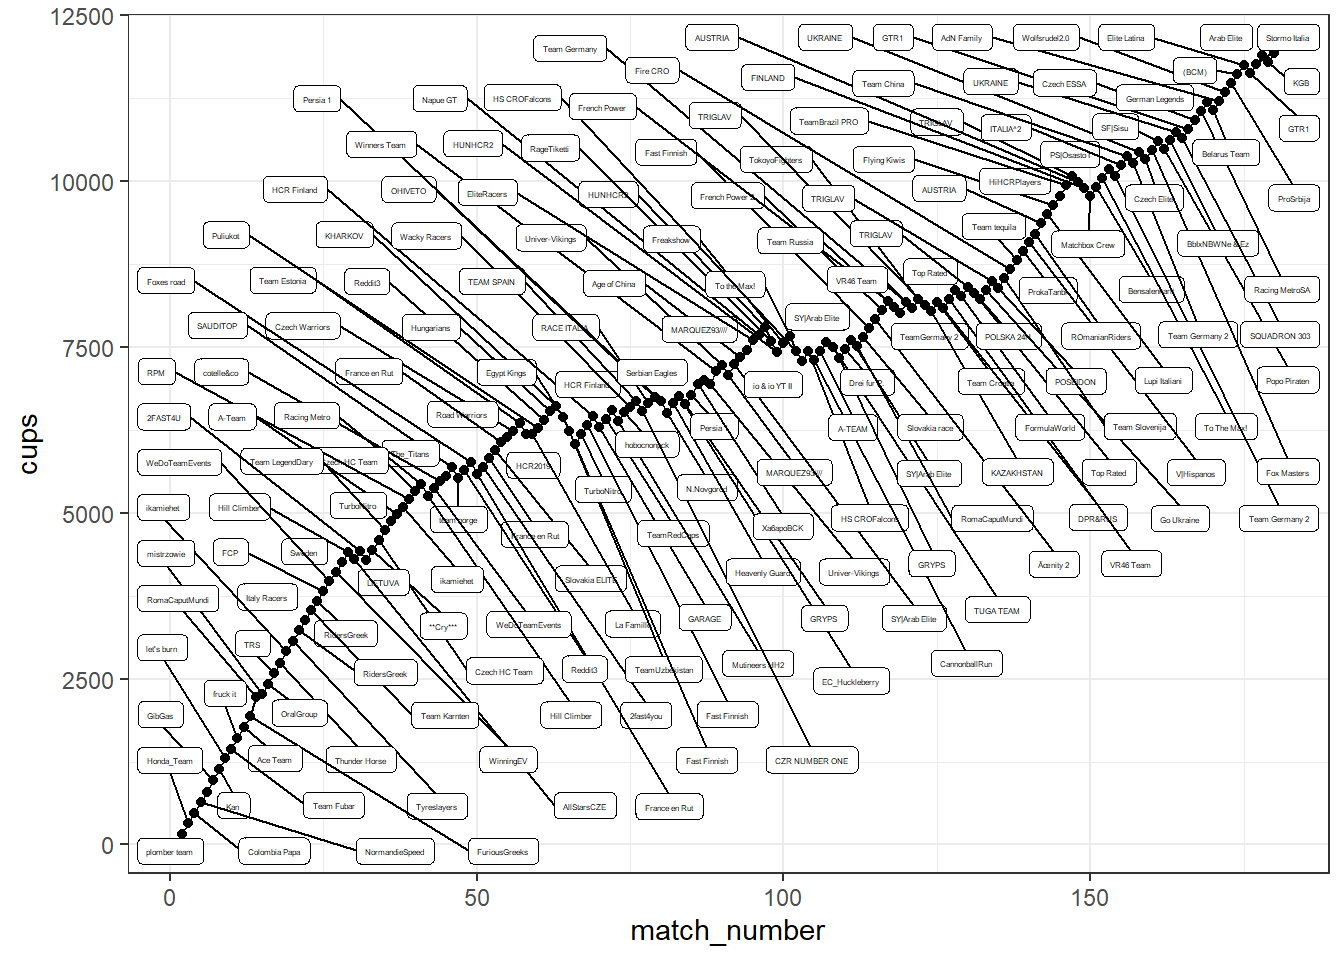
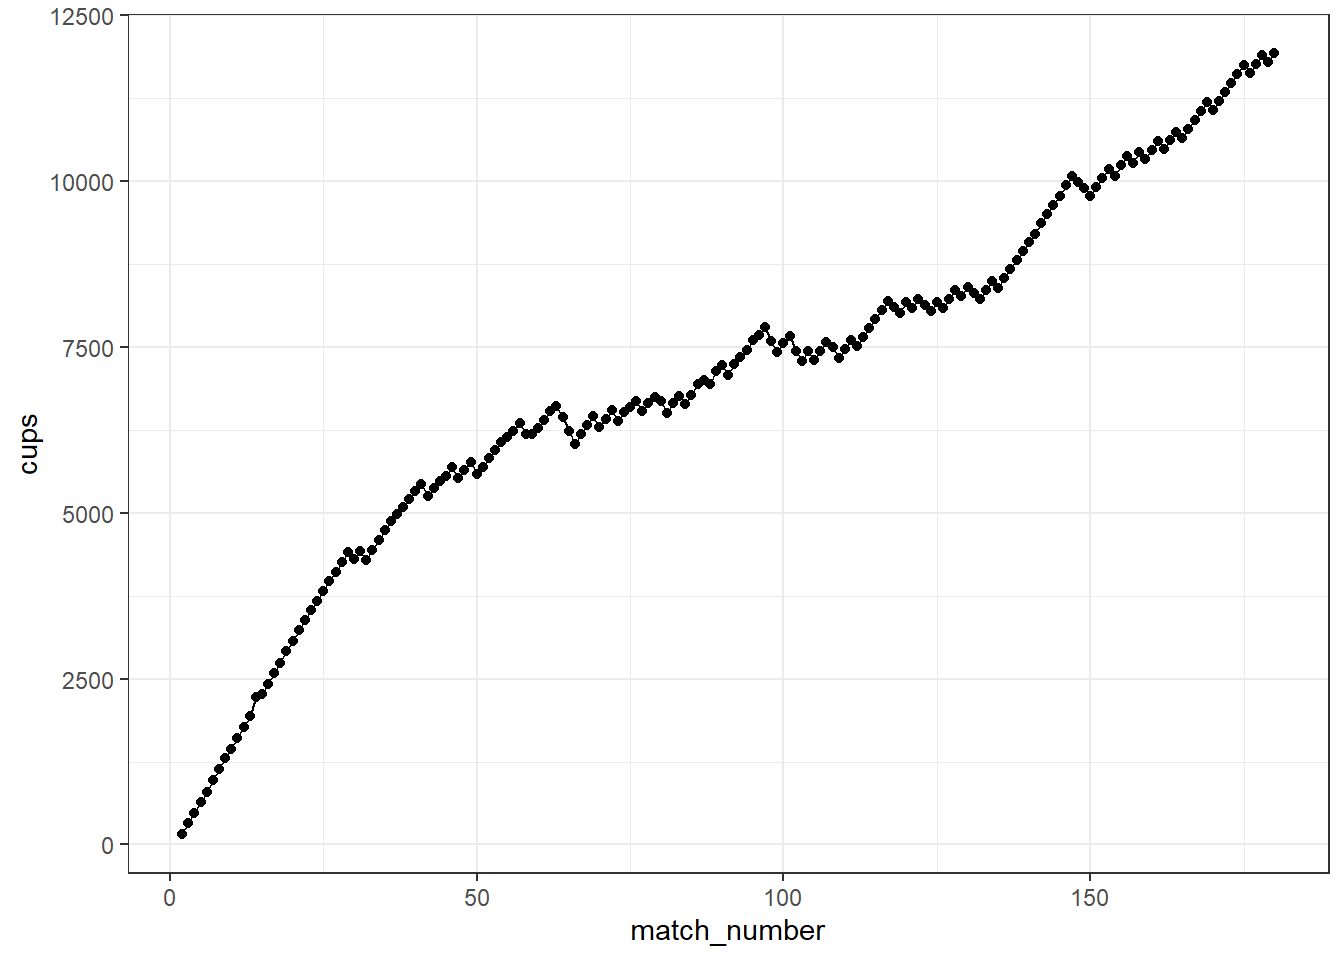
commit from Rstudio

diff --git a/content/RZR/about_RZR.html b/content/RZR/about_RZR.html
@@ -1,7 +1,7 @@
 ---
 title: "About RZR"
 author: "giddybb"
-date: "30 June, 2020"
+date: "01 July, 2020"
 output: html_document
 summary: Zig-Zag RZR team information including cup history graphs.
 tags:
@@ -11,14 +11,42 @@ tags:
 <script src="/rmarkdown-libs/kePrint/kePrint.js"></script>
 
 
-<p>Zig-Zag RZR is the first team in the Zig-Zag family. RZR was formed (as Zig-Zag Racers) at the end of June 2019 (at the start of the Newfangled vehicles event). It was born from the embers of rizzlaracers, a some time top 30 team brought down by an inactive leader.</p>
+<p>Zig-Zag RZR is the first team in the Zig-Zag family. RZR was formed (as Zig-Zag Racers) at the end of June 2019 (at the start of the Newfangled vehicles event). It was born from the embers of rizzlaracers. Rizzlaracers was a top team (briefly world number one and consistently top thirty) brought down by an inactive leader.</p>
 <p>RZR was last recorded as having 11789 cups and being ranked 40 in the world. This measurement was taken going into the match against KGB (patience 2).</p>
 <p>Since formation RZR has played 179 matches, winning 132 of those (a win percentage of 74%). Of their most recent 15 matches RZR have won 12 (a recent win percentage of 80%).</p>
 <p>Performance data for RZR stored on this <a href="https://docs.google.com/spreadsheets/d/1ftRMXTRL84SO-eedX8EIof8i_5C64qemwskffr8DUXA/edit?usp=sharing">google sheet</a></p>
-<p>The two graphs below show the cup history of RZR. First, the cup progress over time with opposition names:</p>
+<p>The four graphs below show the cup and rank history of RZR.</p>
+<p>First, the cup progress over time (full details including opposition names are in the table below):</p>
 <p><img src="/RZR/about_RZR_files/figure-html/unnamed-chunk-3-1.png" width="672" /></p>
-<p>Second, the cup progress relative to the other Zig-Zag teams.</p>
+<p>Second, the progress of RZR in terms of world rank</p>
+<pre class="r"><code>all_matches %&gt;%
+  filter(teamname==&quot;RZR&quot;, !is.na(zz_rank_before)) %&gt;%
+  ggplot(aes(x=match_number, y=zz_rank_before)) +
+  geom_line() +
+  # geom_label_repel(size=1, aes(label=opposition))+
+  theme_bw() +
+  labs(y=&quot;rank&quot;) +  
+  scale_y_reverse(limits=c(NA, 1)) +
+  geom_hline(yintercept=1) +
+  annotate(x=100, y=1, geom=&quot;text&quot;, label=&quot;world rank 1&quot;, vjust=1)+
+  geom_hline(yintercept=100) +
+  annotate(x=170, y=100, geom=&quot;text&quot;, label=&quot;world rank 100&quot;, vjust=1)+
+  geom_hline(yintercept=200) +
+  annotate(x=170, y=200, geom=&quot;text&quot;, label=&quot;world rank 200&quot;, vjust=1) +
+  geom_vline(xintercept=110) +
+  annotate(x=110, y=250, geom=&quot;text&quot;, label=&quot;mergers&quot;, vjust=1, angle=90) +
+  geom_label_repel(data = all_matches %&gt;%
+                     filter(teamname==&quot;RZR&quot;,
+                            !is.na(zz_rank_before)) %&gt;%
+                     arrange(-match_number) %&gt;%
+                     slice(1)
+                   ,
+                   aes(label=zz_rank_before))</code></pre>
 <p><img src="/RZR/about_RZR_files/figure-html/unnamed-chunk-4-1.png" width="672" /></p>
+<p>Third, the cup progress relative to the other Zig-Zag teams.</p>
+<p><img src="/RZR/about_RZR_files/figure-html/unnamed-chunk-5-1.png" width="672" /></p>
+<p>Finally, the rank progress relative to the other Zig-Zag teams.</p>
+<p><img src="/RZR/about_RZR_files/figure-html/unnamed-chunk-6-1.png" width="672" /></p>
 <table class="table" style="margin-left: auto; margin-right: auto;">
 <thead>
 <tr>
